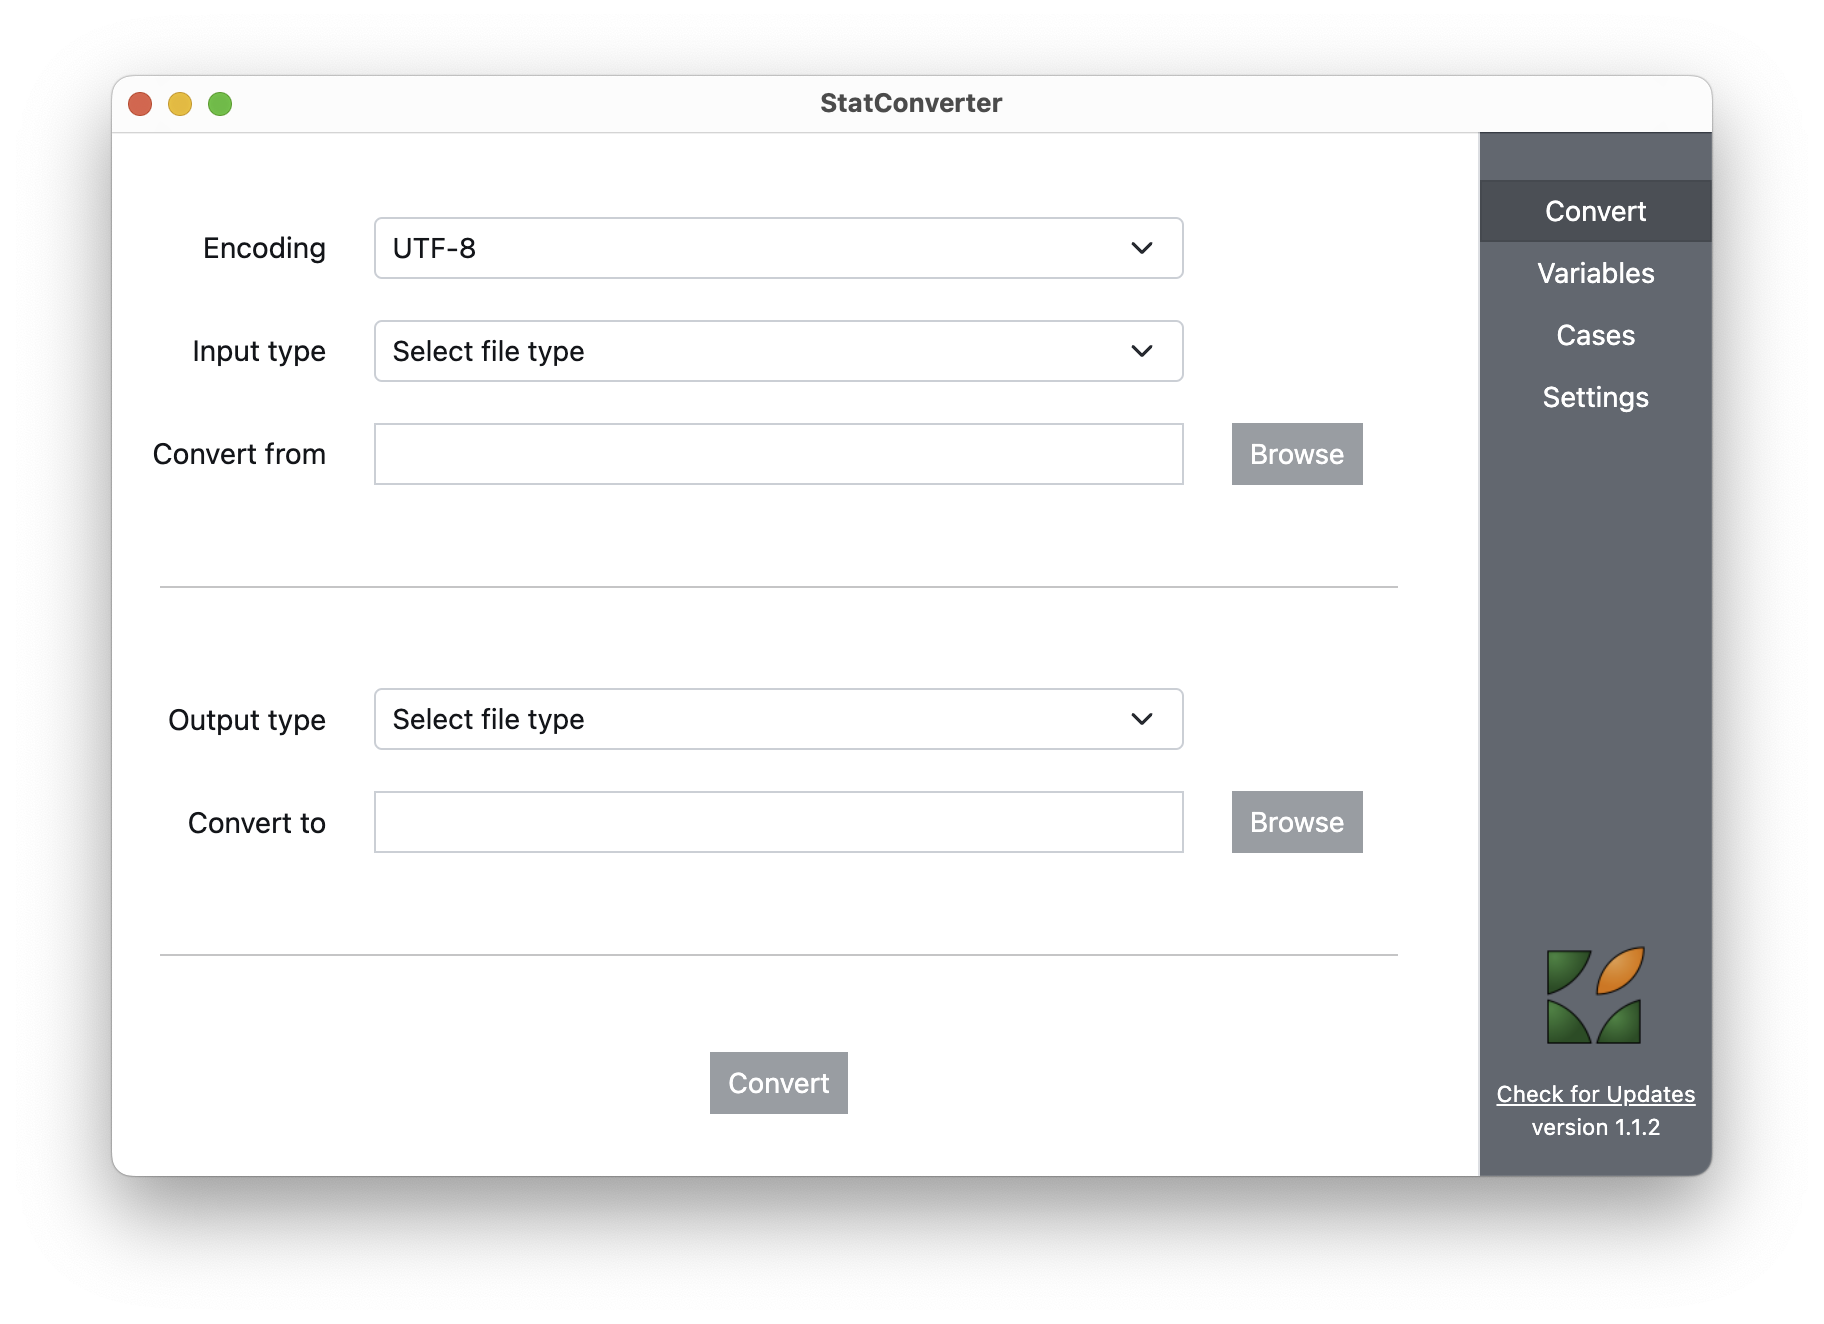
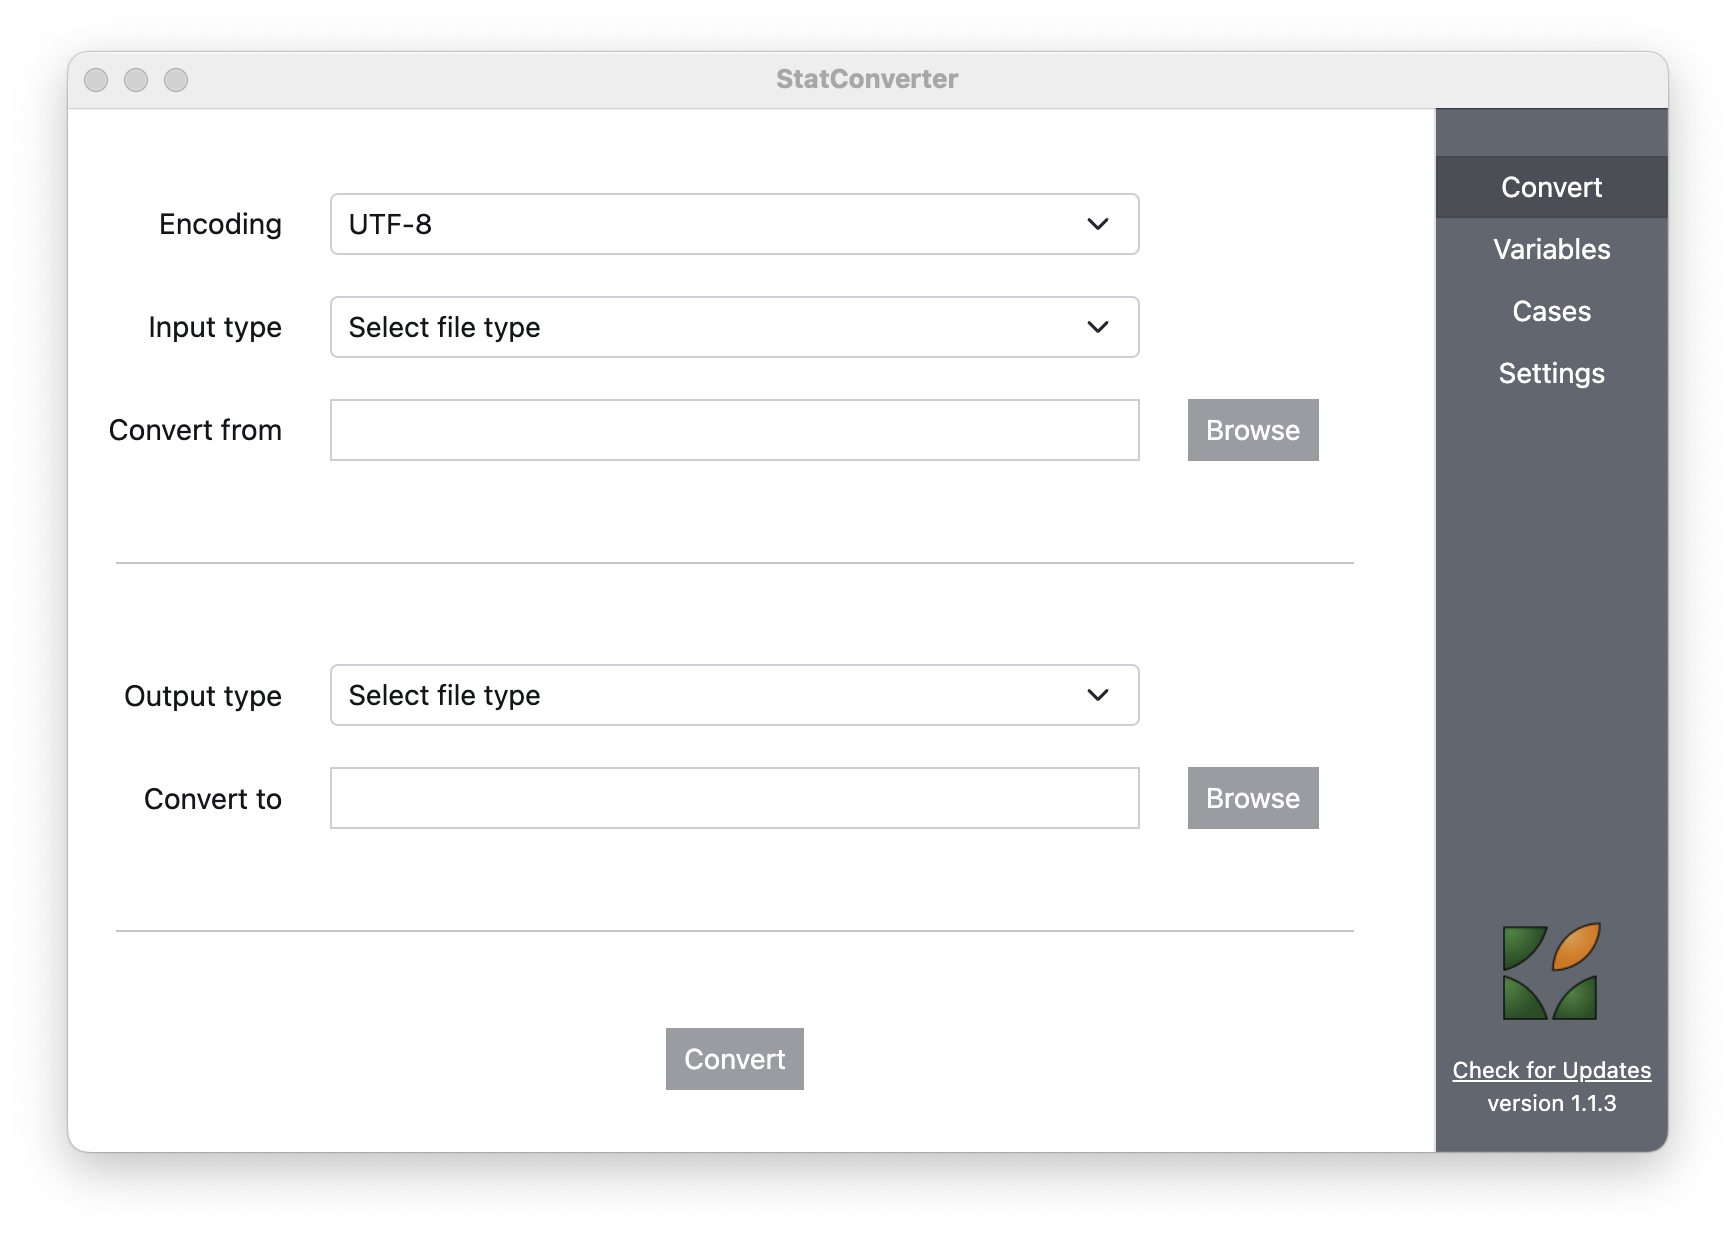
up minor version

diff --git a/docs/index.html b/docs/index.html
@@ -37,7 +37,7 @@
                     <h1>StatConverter</h1>
                     
                     <p>
-                        StatConverter v1.1.2 (by <a target="_blank" href="http://www.roda.ro" target="_blank">RODA</a>)
+                        StatConverter v1.1.3 (by <a target="_blank" href="http://www.roda.ro" target="_blank">RODA</a>)
                         is a tool to convert to and from various statistical software formats: R, SPSS, Stata, SAS (even Excel)
                         and DDI Codebook.</p>
 

diff --git a/index.html b/index.html
@@ -456,7 +456,7 @@
 				<div class="text-white text-center flex" style="font-size: 0.7rem">
 					<div class="align-self-end pb-3">
 						<a href="#" class="text-white" id="checkForUpdates">Check for Updates</a><br />
-						version 1.1.2
+						version 1.1.3
 					</div>
 				</div>
 			</div>
